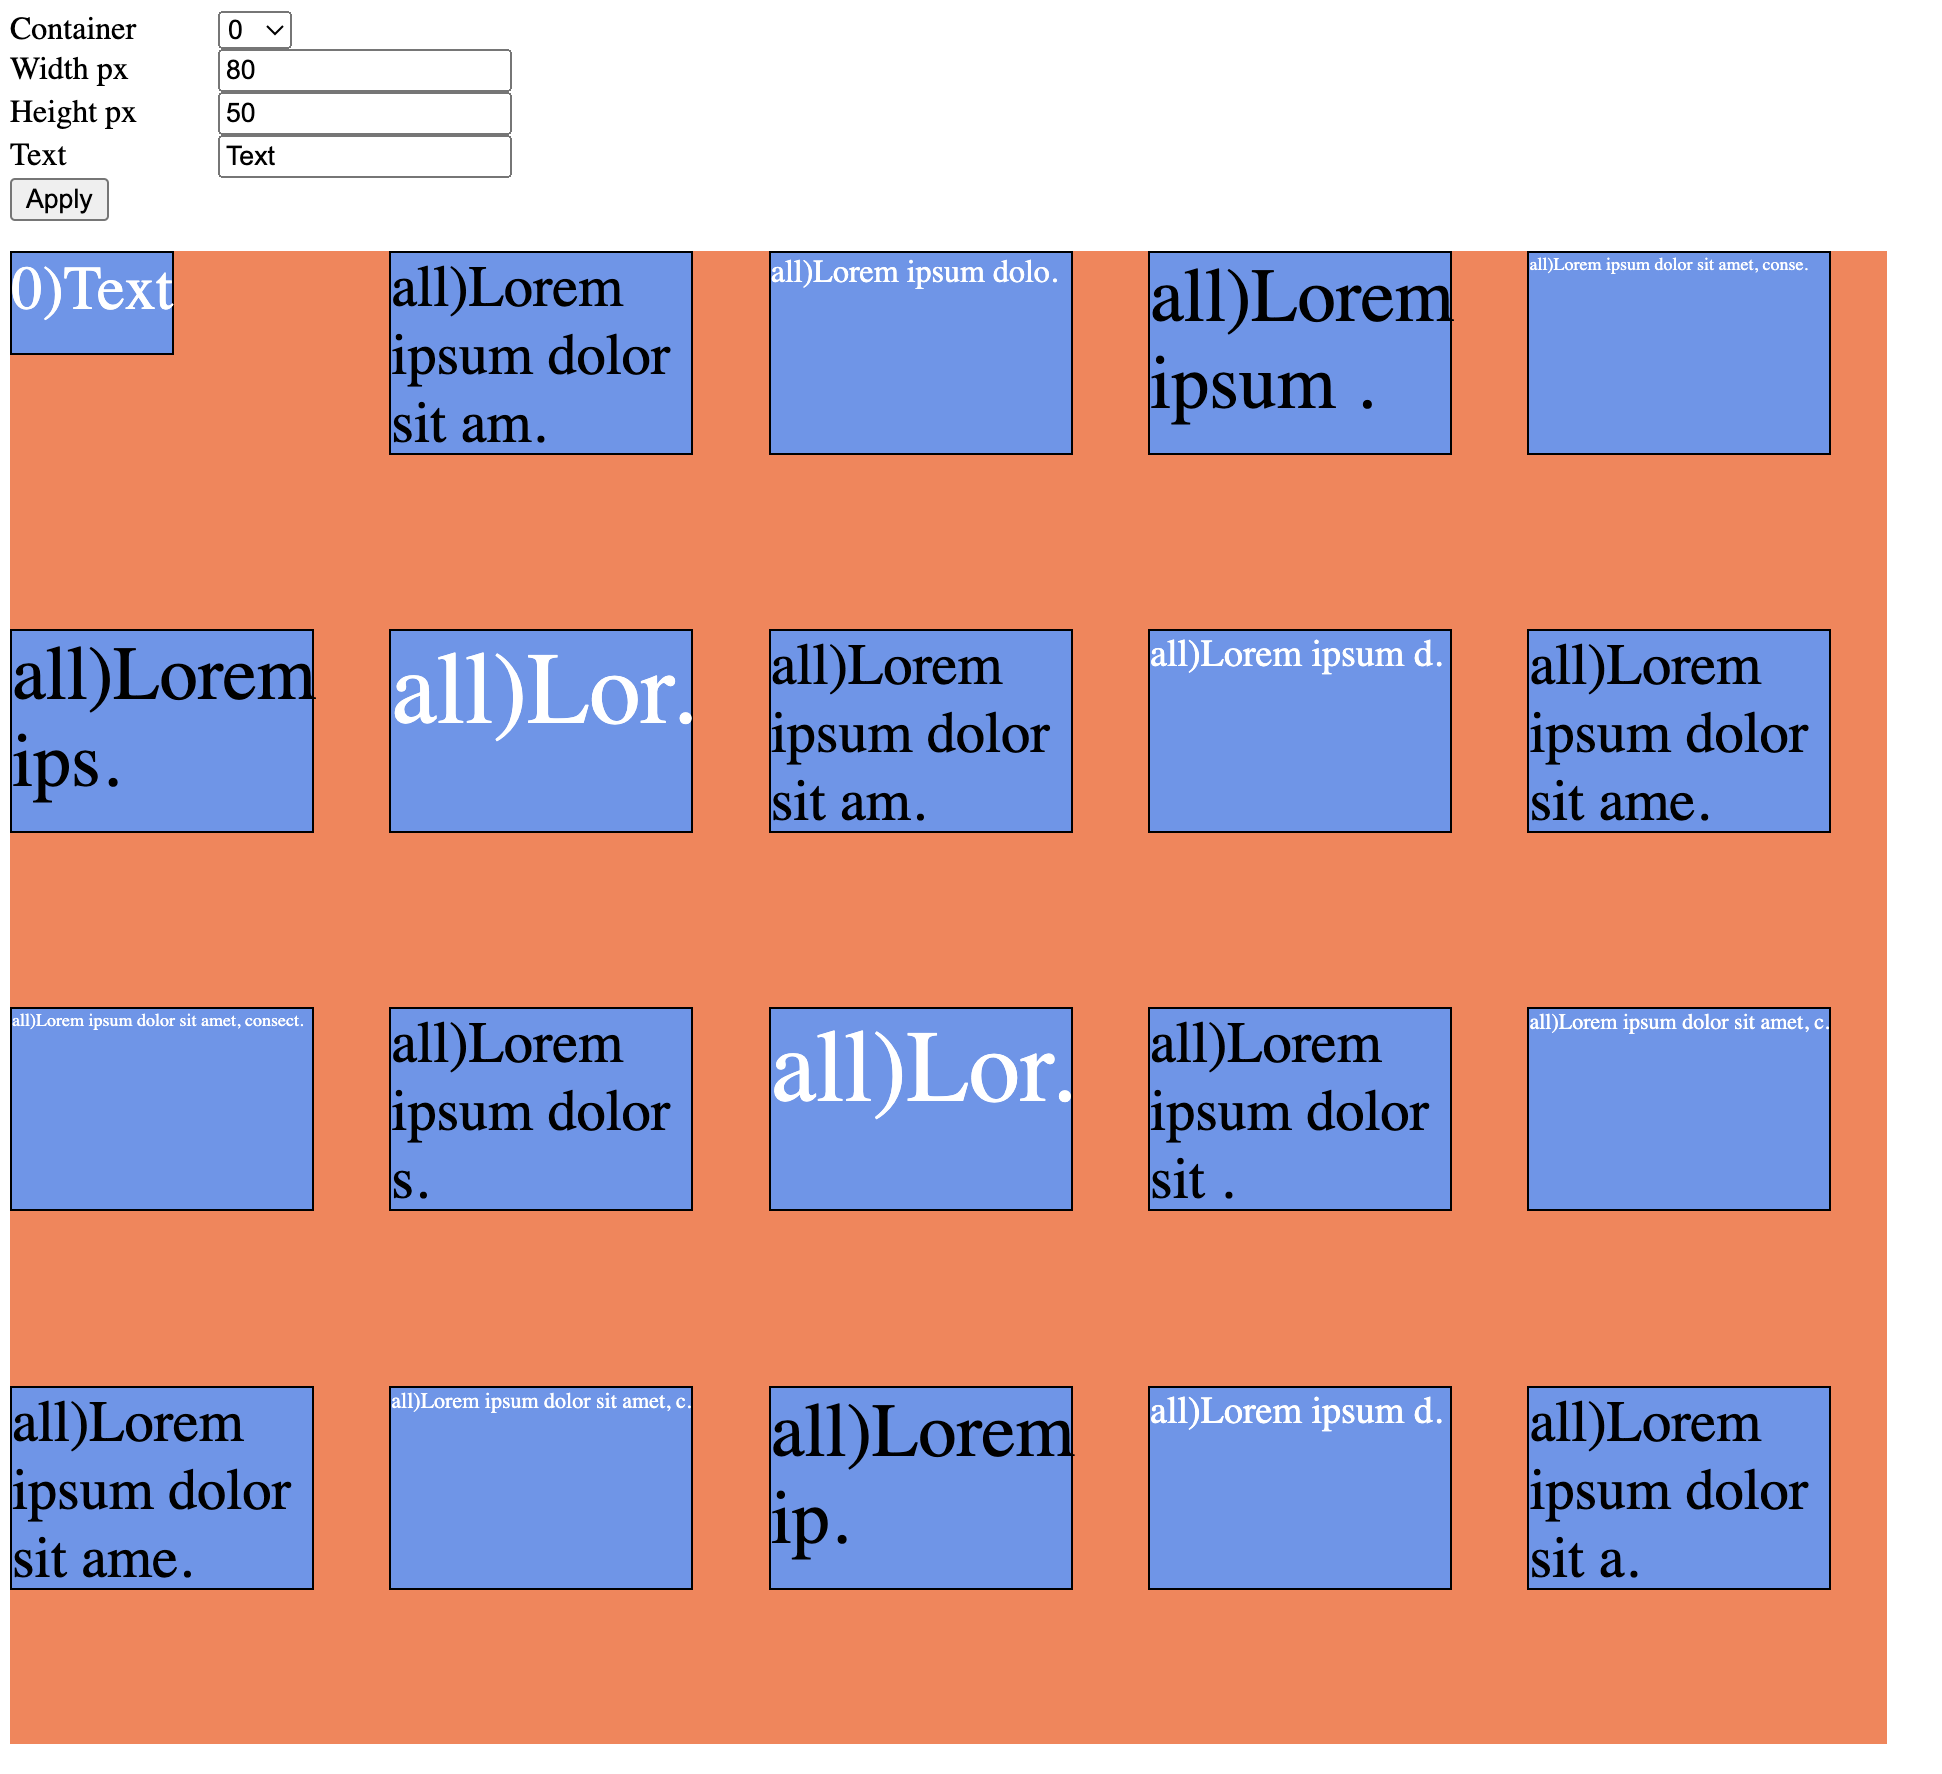
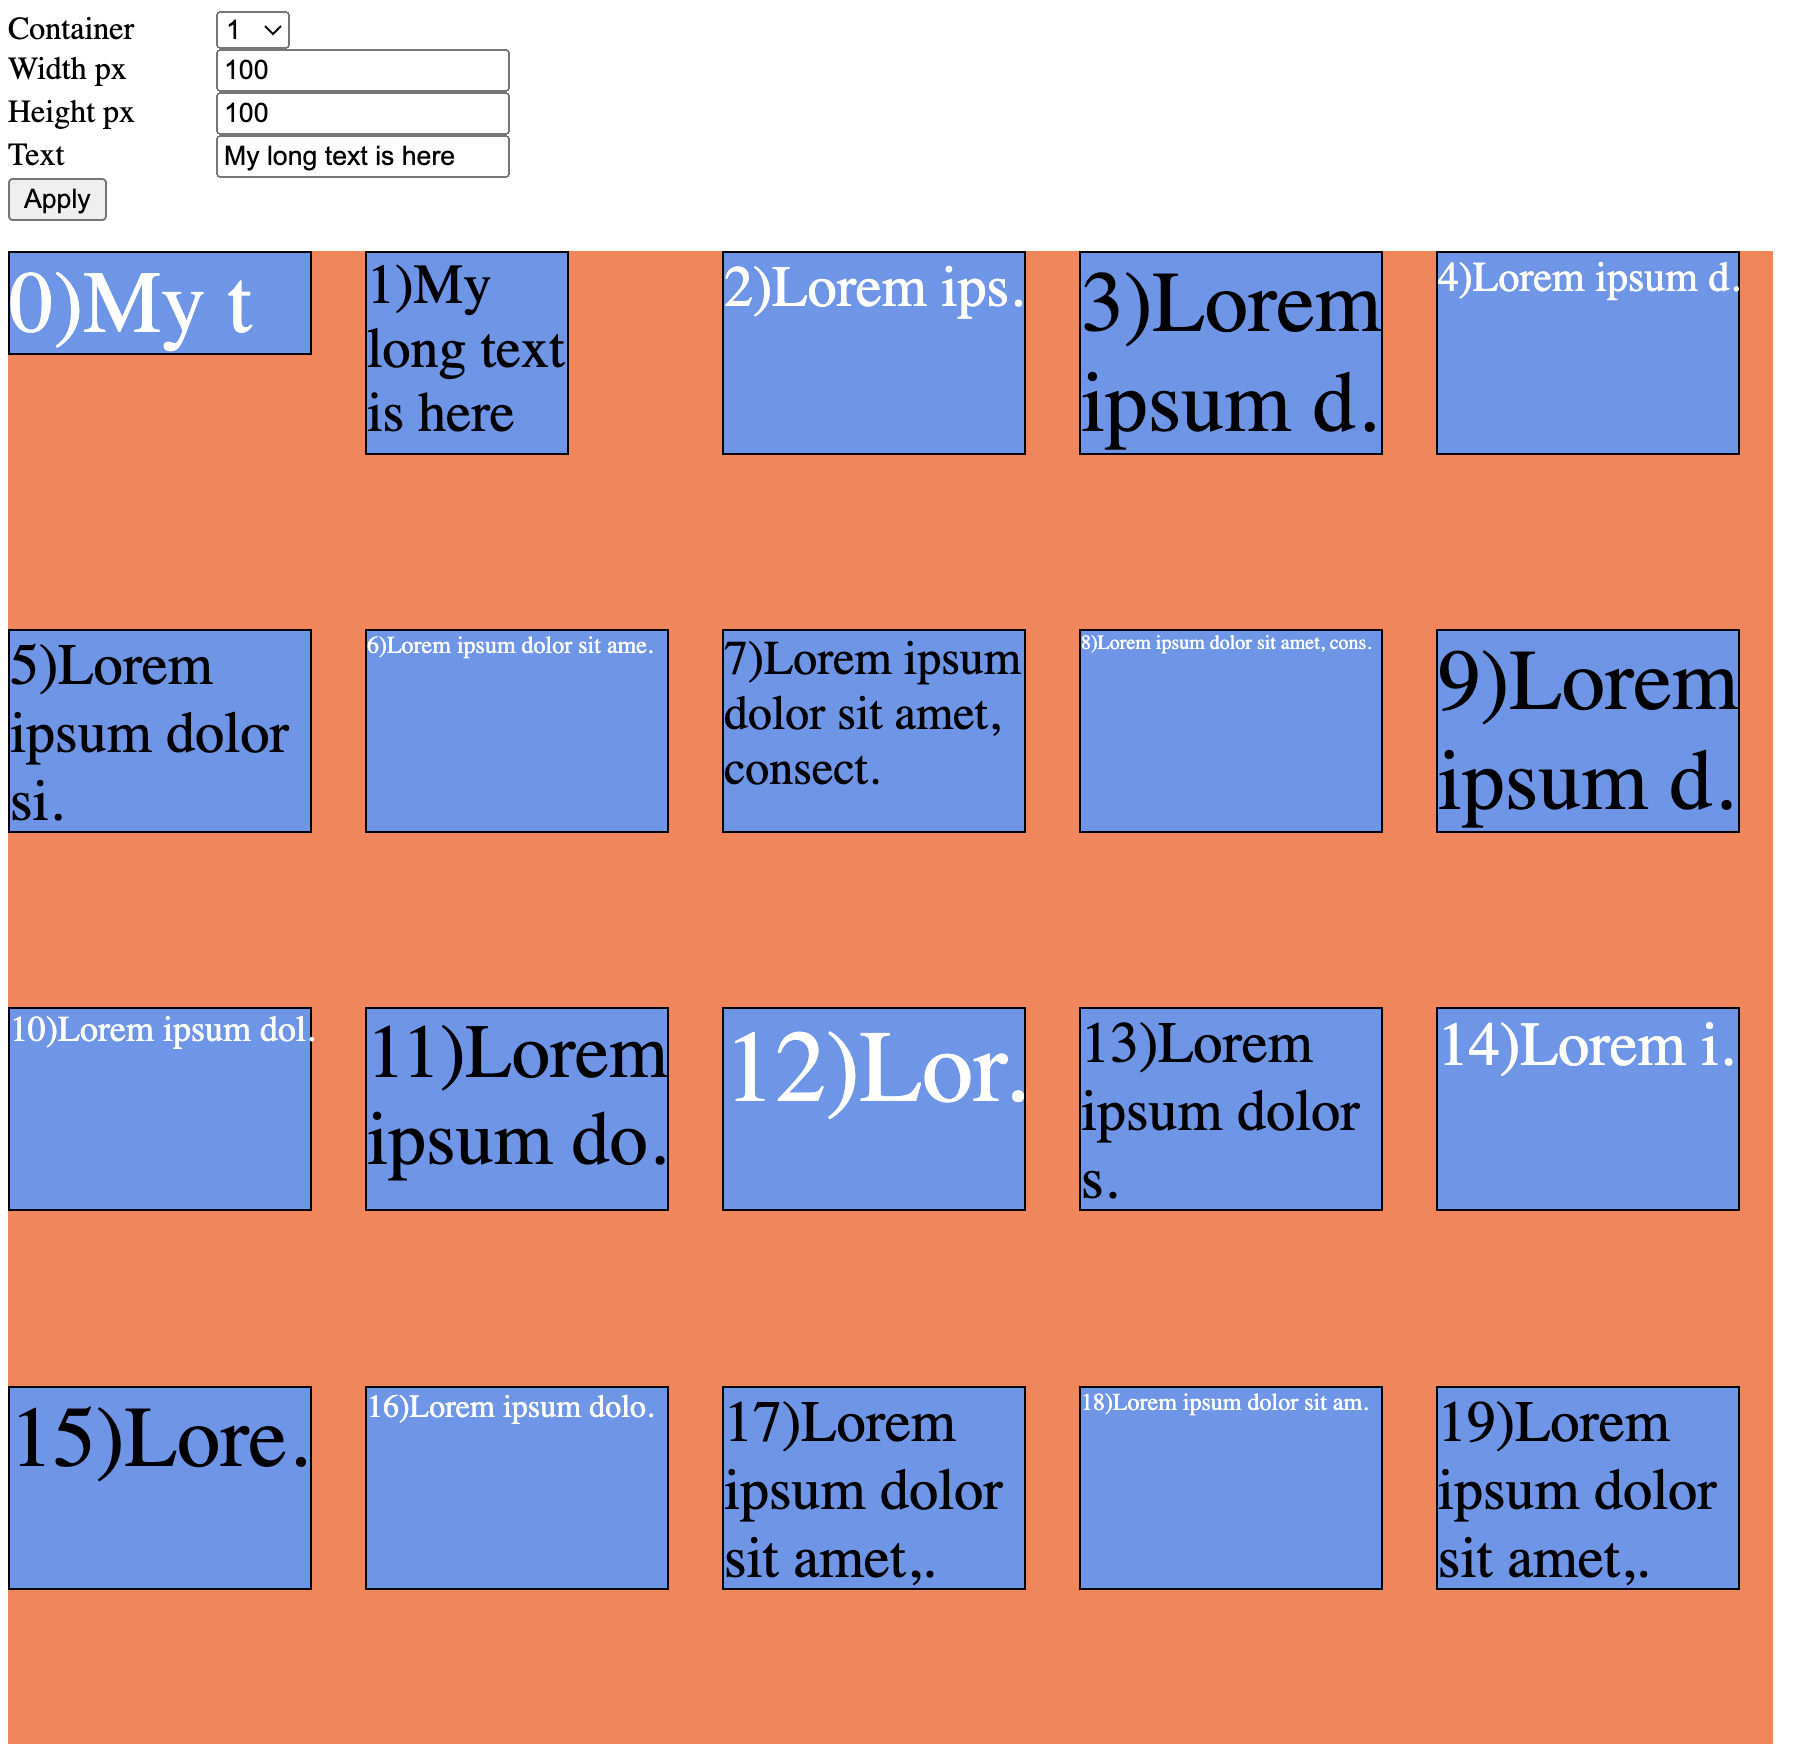
fix bug with id

Changed region(s): [[0.0, 0.0, 0.9922, 1.0]]

diff --git a/main.js b/main.js
@@ -42,15 +42,15 @@ function createOptionSelection(){
 
 const applyBtn = document.getElementById('applyBtn');
 applyBtn.addEventListener('click', ()=>{
-    const index = containerNumb.value;
+    const numb = containerNumb.value;
 
     let containers = [];
-    if(index == 'all'){
+    if(numb == 'all'){
         containers = document.getElementsByClassName('child-container');
     }
     else {
         containers.push(
-            document.getElementById(+index)
+            document.getElementById(+numb)
         );
     }
 
@@ -59,13 +59,14 @@ applyBtn.addEventListener('click', ()=>{
     Array.from(containers).forEach(container => {
         container.style.width = `${widthCont}px`;
         container.style.height = `${heightCont}px`;
+        const conteinerId = container.getAttribute("id");
 
         let userText = inputContainerText.value;
         if(userText === undefined || userText === null || userText === ''){
-            container.textContent = `${index})${createRandomText(textLength)}`;
+            container.textContent = `${conteinerId})${createRandomText(textLength)}`;
         }
         else {
-            container.textContent =  `${index})${userText}`;
+            container.textContent =  `${conteinerId})${userText}`;
         }
     });
 
